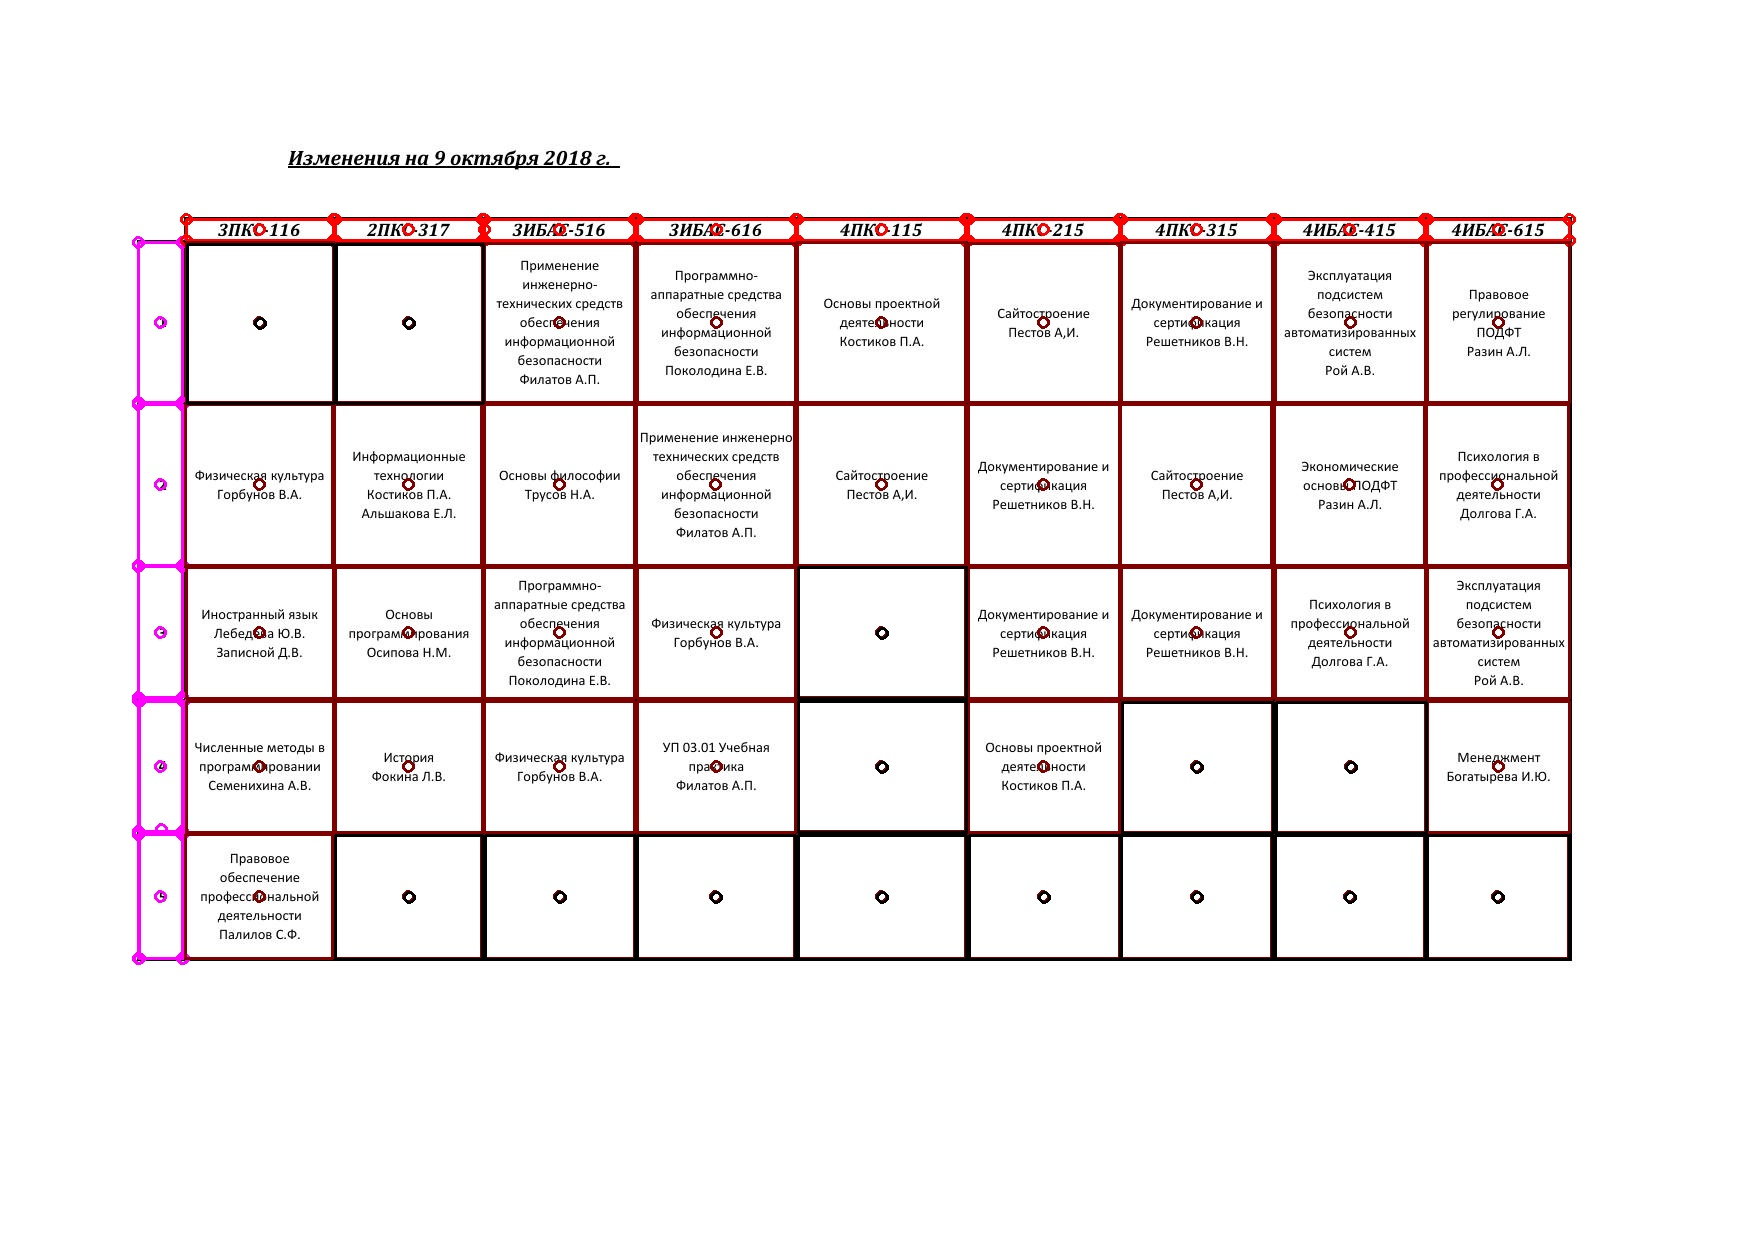
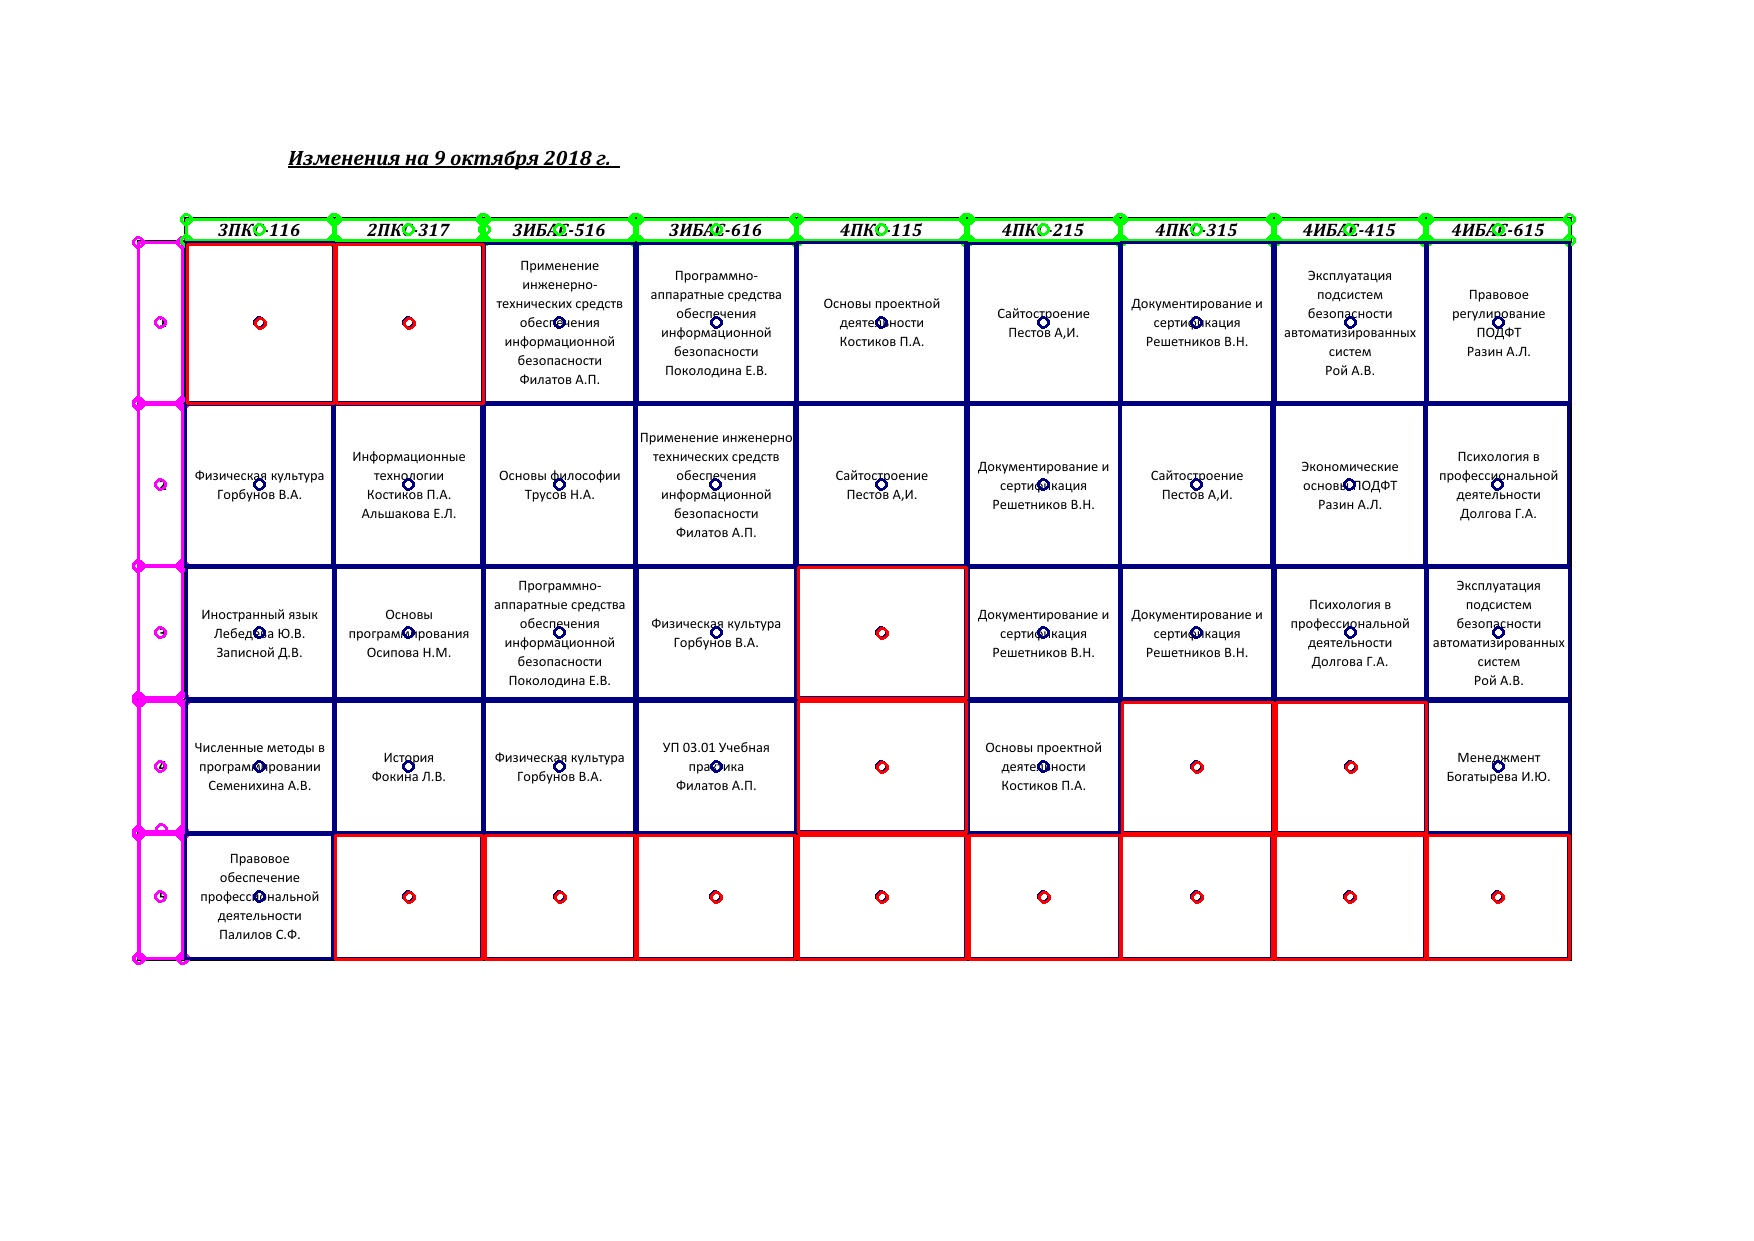
Более кайф цвета (важно!)

Changed region(s): [[0.0924, 0.1531, 0.9236, 0.7961], [0.1847, 0.3062, 0.2155, 0.3368]]

diff --git a/backend/opencvexample.py b/backend/opencvexample.py
@@ -100,8 +100,8 @@ def get_null_values(timg,image):
             old_rect = rect
             old_center = center
 
-            cv2.drawContours(image,[box],0,(0,0,0),2)
-            cv2.circle(image, center, 5, (0,0,0), 2)
+            cv2.drawContours(image,[box],0,(0,0,255),2)
+            cv2.circle(image, center, 5, (0,0,255), 2)
 
     for nullitem in outchecklist:
         for item in finalmatrix:
@@ -157,10 +157,10 @@ def main():
         #Заголовки групп
         if (rect[1][1] < 50) and (rect[1][1] > 15) and (rect[1][0] > 60) and (rect[1][0] > rect[1][1]) and (rect[0][0] > rect[0][1]):
             for p in box:
-                cv2.circle(image, (p[0],p[1]), 5, (0,0,255), 2)
+                cv2.circle(image, (p[0],p[1]), 5, (0,255,0), 2)
             
-            cv2.drawContours(image,[box],0,(0,0,255),2)
-            cv2.circle(image, center, 5, (0,0,255), 2)
+            cv2.drawContours(image,[box],0,(0,255,0),2)
+            cv2.circle(image, center, 5, (0,255,0), 2)
             group_cell_list.append(box)
         
         #Цифры пар (слева)
@@ -191,8 +191,8 @@ def main():
             old_rect = rect
             old_center = center
 
-            cv2.drawContours(image,[box],0,(0,0,128),2)
-            cv2.circle(image, center, 5, (0,0,128), 2)
+            cv2.drawContours(image,[box],0,(128,0,0),2)
+            cv2.circle(image, center, 5, (128,0,0), 2)
 
             #Закидываем центры на проверку для подсчета кол-ва повторений
             ColumnCheckerList.append(center[0])
